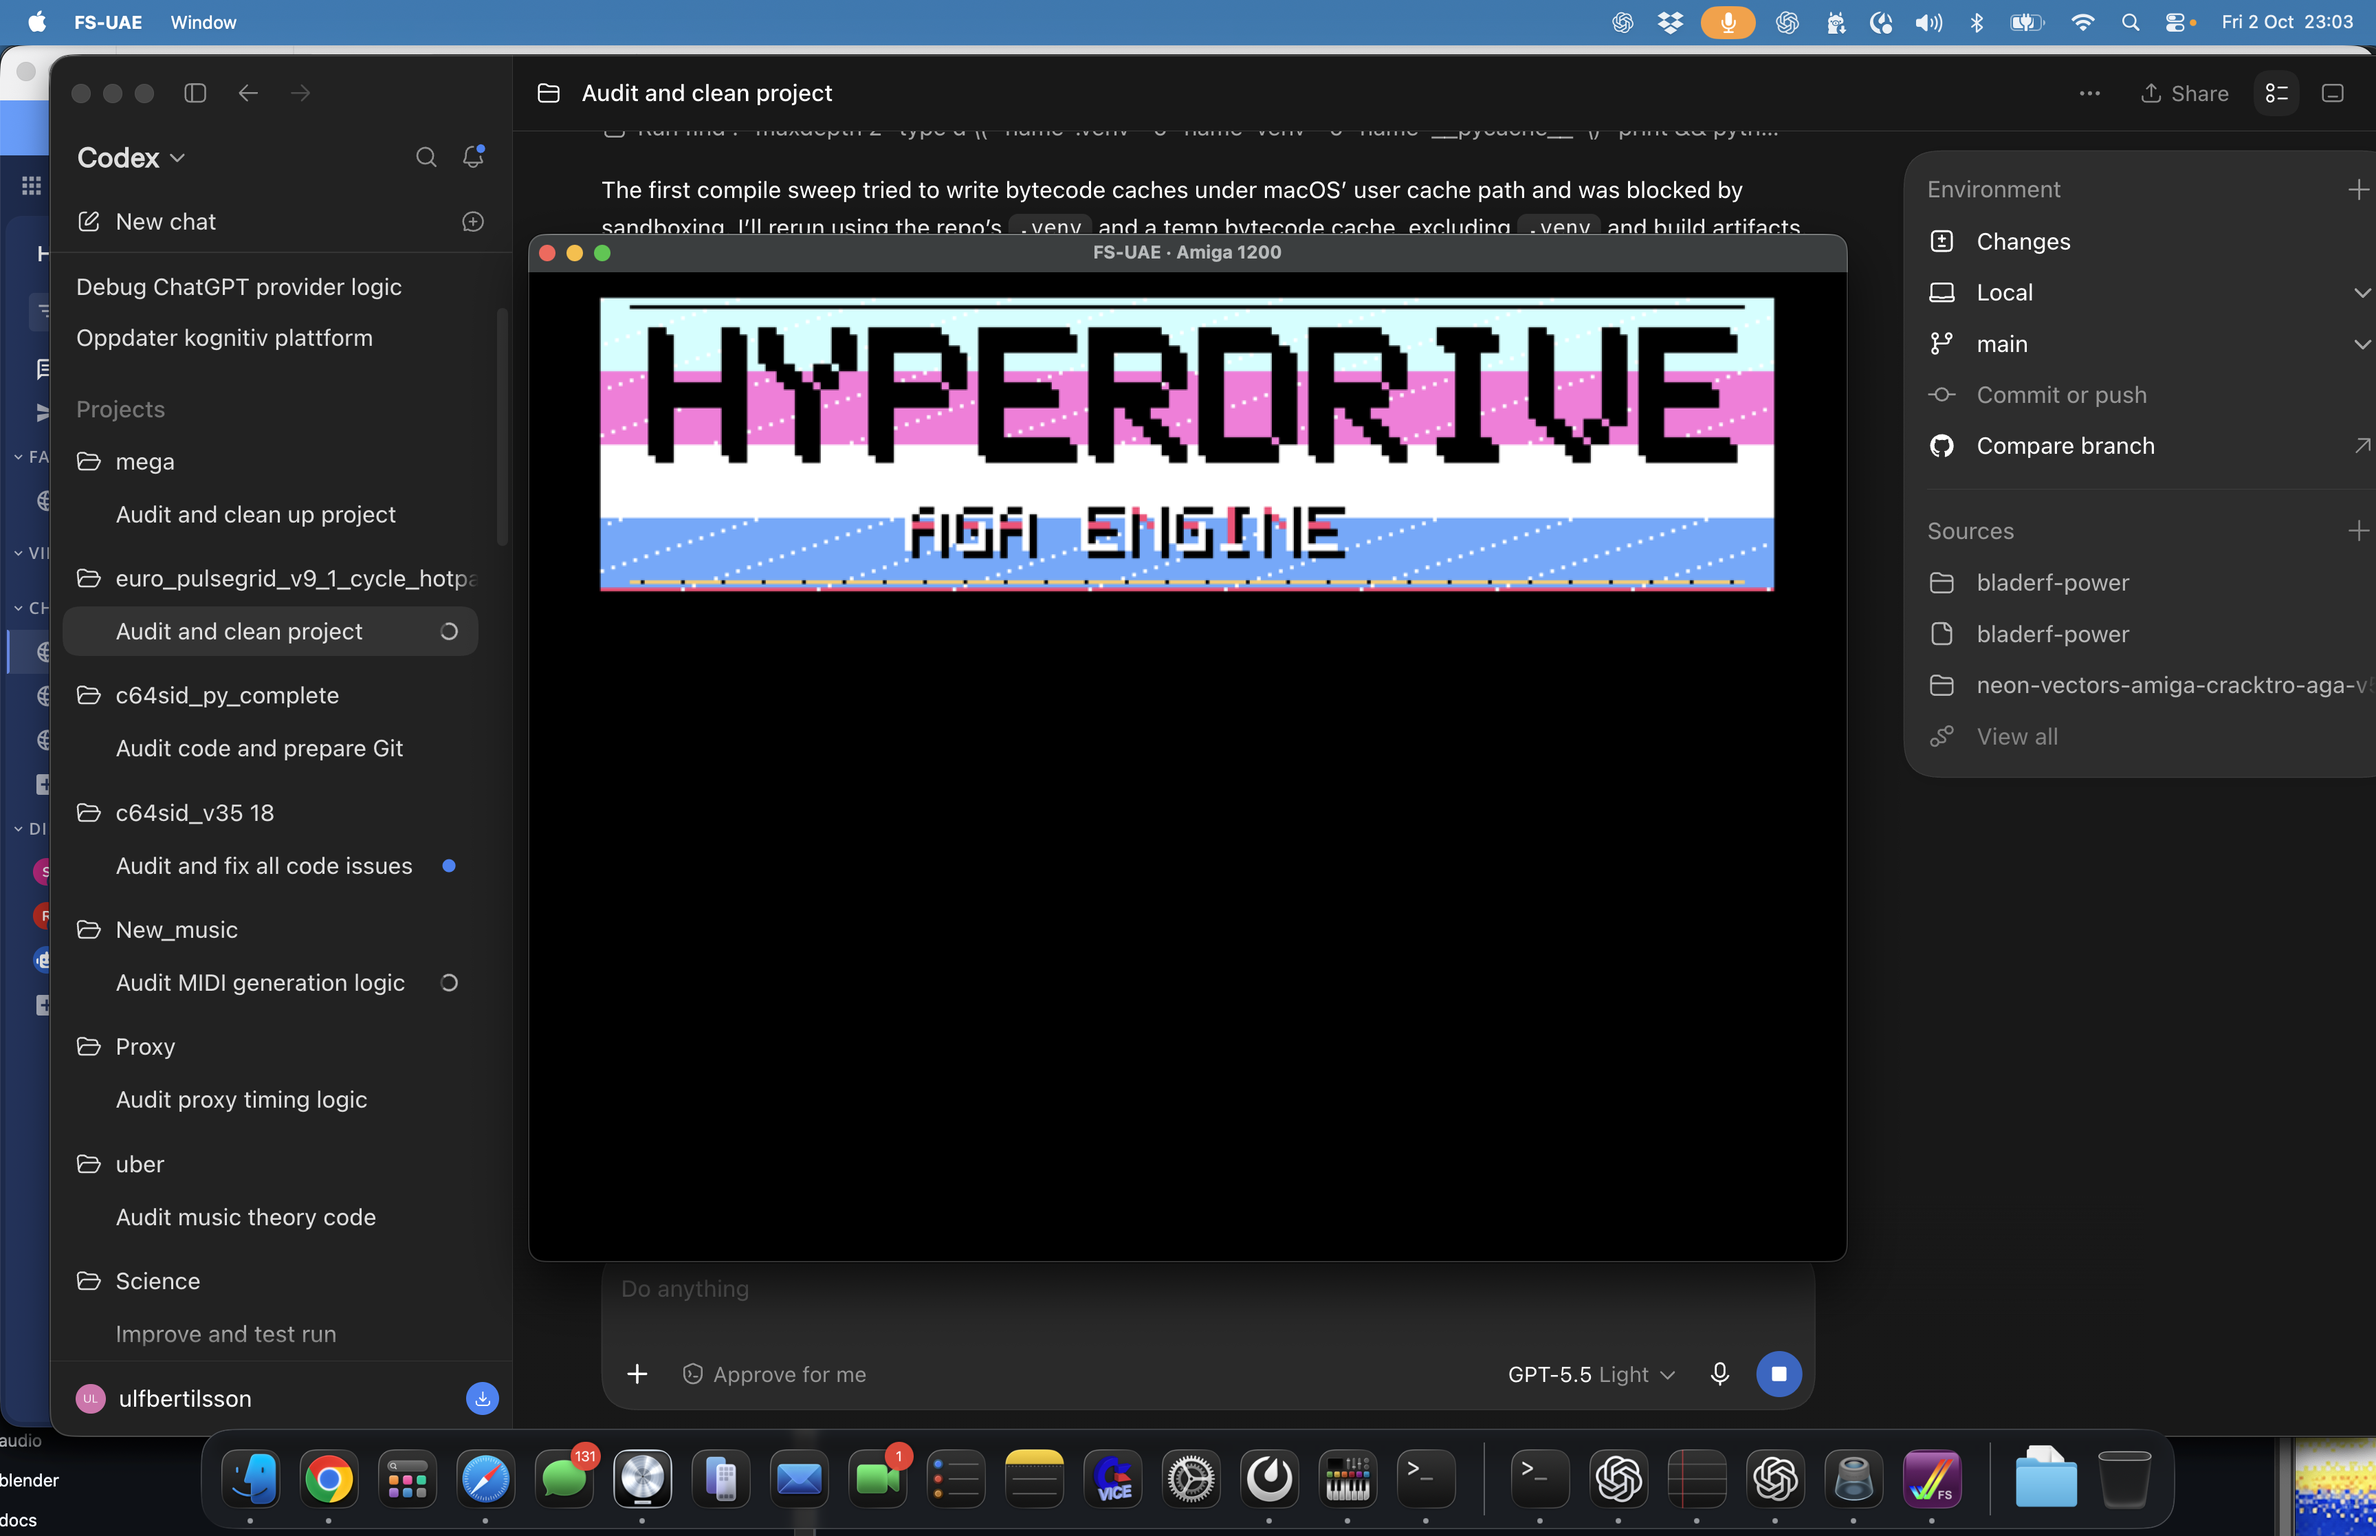
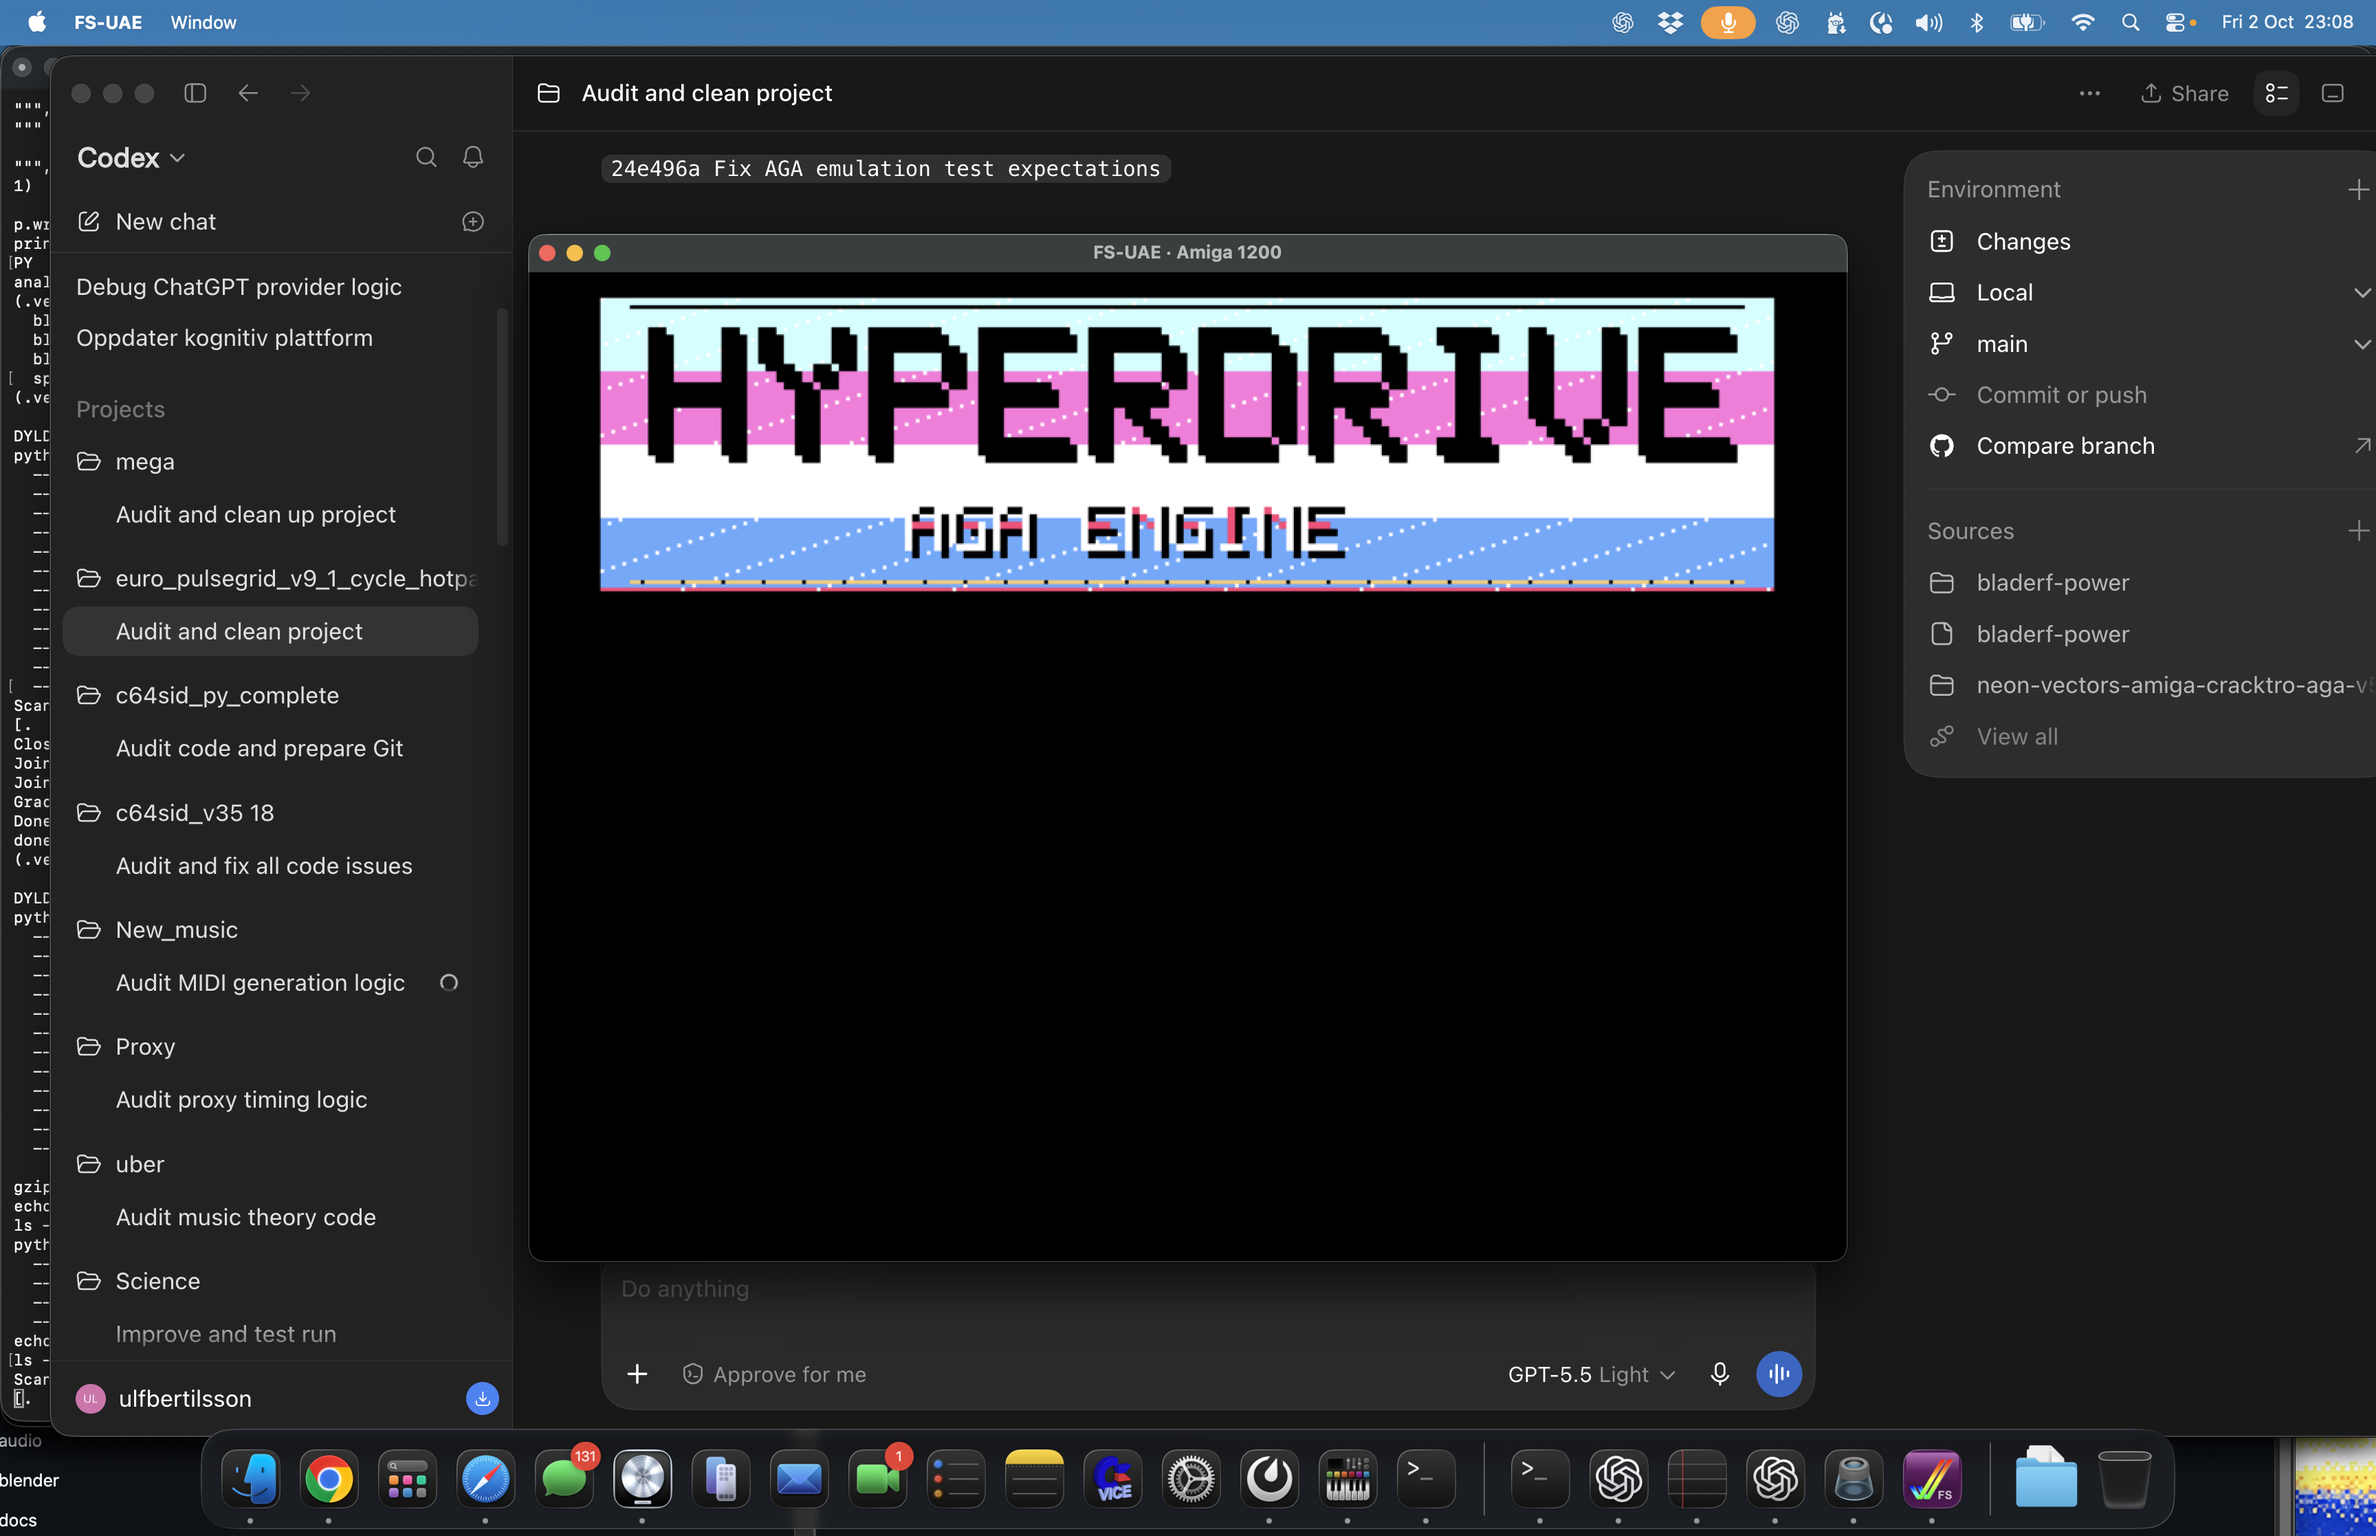
Keep engine running until left mouse exit

Changed region(s): [[0.0, 0.0309, 1.0, 0.9266], [0.25, 0.0927, 0.75, 0.1544]]

diff --git a/tools/validate.py b/tools/validate.py
@@ -32,6 +32,7 @@ if main.exists():
         check(required in s, f"missing source symbol/comment {required}")
     check("move.w  d0,2(a1)" in s and "move.w  d0,6(a1)" in s, "Copper_Build must patch bitplane pointer high/low words")
     check("lea     screen,a0" in s and "LOGO_PLANE_SIZE" in s, "logo must be copied into a full-height screen buffer")
+    check("btst    #6,CIAAPRA" in s, "main loop must stay running until left mouse is pressed")
     check("TODO" not in s, "source contains TODO")
 
 readme = (ROOT / "README.md").read_text() if (ROOT / "README.md").exists() else ""

diff --git a/README.md b/README.md
@@ -68,7 +68,7 @@ Generated assets:
 
 ## Run target
 
-Use FS-UAE/WinUAE/Amiberry with an A1200 or A4000 AGA PAL configuration. The current executable is a foundation/smoke-test engine build that displays the generated logo through real Copper bitplane pointers and live AGA colour-slot updates. The next milestones are full chip-RAM rebasing, hardware-confirmed AGA detection, blitter vector layer, sprite multiplexer and scene sequencer.
+Use FS-UAE/WinUAE/Amiberry with an A1200 or A4000 AGA PAL configuration. The current executable is a foundation/smoke-test engine build that displays the generated logo through real Copper bitplane pointers and live AGA colour-slot updates. It stays running until the left mouse button is pressed. The next milestones are full chip-RAM rebasing, hardware-confirmed AGA detection, blitter vector layer, sprite multiplexer and scene sequencer.
 
 ## Validation
 

diff --git a/docs/ARCHITECTURE.md b/docs/ARCHITECTURE.md
@@ -10,6 +10,7 @@ AGA Hyperdrive Engine is split into deterministic generation tools and a small 6
 - `Effect_UpdateCopperGradient` rewrites AGA high/low colour slots from a generated 24-bit table.
 - `Screen_Init` clears the full-height display buffer and copies the 80-line generated logo into each correctly-strided bitplane.
 - `Music_Init` and `Music_Tick` reserve the music control surface.
+- The main loop is persistent and exits only on left mouse, matching demo/cracktro behaviour instead of auto-closing during boot smoke tests.
 
 ## Data flow
 

diff --git a/docs/EFFECTS.md b/docs/EFFECTS.md
@@ -7,7 +7,7 @@
 - Generated Copper-gradient table.
 - Generated tunnel reciprocal table.
 - Live Copper slot updater in the assembly frame loop.
-- FS-UAE A1200 smoke test displays the generated logo through Copper-patched bitplane pointers.
+- FS-UAE A1200 smoke test displays the generated logo through Copper-patched bitplane pointers and remains running until left mouse exit.
 
 ## Next hardware-maximising effects
 
